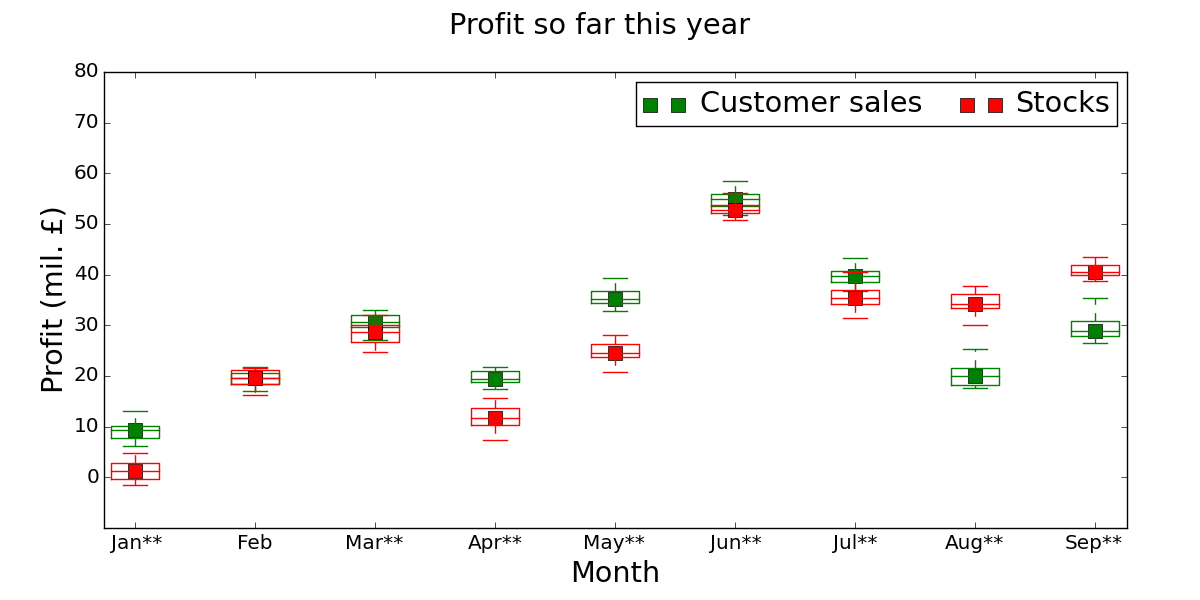
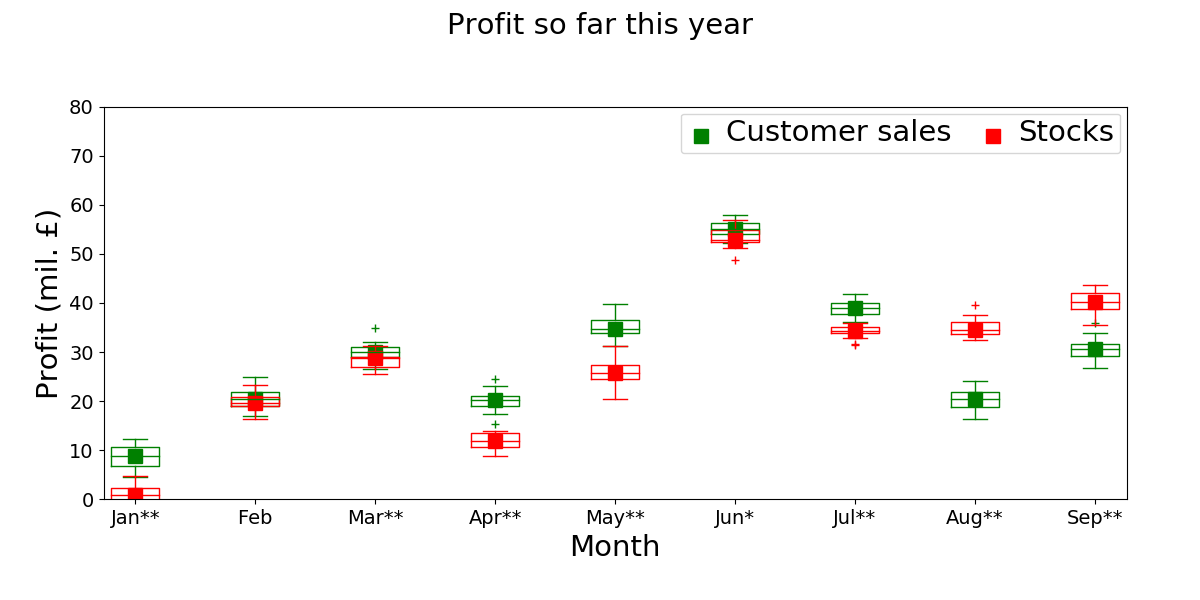
better styling of box plot outliers

diff --git a/python/pyCreeper/crGraphs.py b/python/pyCreeper/crGraphs.py
@@ -415,13 +415,15 @@ def createLinePlot(data_,
         #-- do box plots
         if (showBoxPlots_):
             boxPlot = pylab.boxplot(data_[i],positions=xTickData,widths=boxPlotWidth_);
+            boxPlotLineWidth = min(lineWidth_,2);
+
             pylab.setp(boxPlot['boxes'], color=color);
             pylab.setp(boxPlot['whiskers'], color=color);
             pylab.setp(boxPlot['medians'], color=color);
-            pylab.setp(boxPlot['fliers'], color=color, marker="+");
+            pylab.setp(boxPlot['fliers'], markeredgecolor=color, marker="+", markerSize = max(6,markerSize_*0.7),markerEdgeWidth=max(1,boxPlotLineWidth));
             pylab.setp(boxPlot['caps'], color=color);
 
-            boxPlotLineWidth = min(lineWidth_,2);
+
             if (boxPlotLineWidth <= 0):
                 boxPlotLineWidth = 1;
 

diff --git a/doc/supportedGraphs.rst b/doc/supportedGraphs.rst
@@ -25,6 +25,7 @@ Line plots
     :func:`examples.linePlots.example1_simple`
     :func:`examples.linePlots.example2_multiple`
     :func:`examples.linePlots.example3_errorBars`
+    :func:`examples.linePlots.example4_boxPlots`
 
 
 ----------------------------
